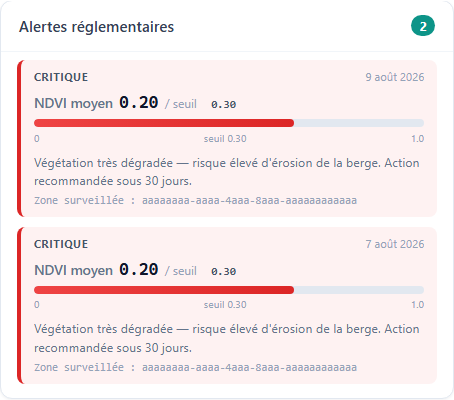
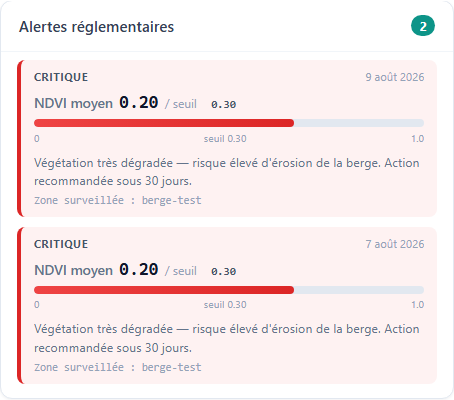
feat(api+web): nom lisible des zones (aoi_name) au lieu de l'UUID brut dans les alertes
- api : list_open_alerts fait un LEFT JOIN avec la table aoi → renvoie aoi_name ; fallback UUID tronqué si inconnu (SQLite tests)
- web : AlertPanel affiche 'Zone surveillée : berge-test' (aoi_name), fallback UUID tronqué
- tests : verify mis à jour (nom lisible, plus d'UUID plein) — Playwright 9/9, pytest 47/47
- captures : régénérées (nom de zone)

Changed region(s): [[0.3084, 0.9, 0.8018, 0.93], [0.3084, 0.48, 0.8018, 0.51]]

diff --git a/web/e2e/verify.spec.ts b/web/e2e/verify.spec.ts
@@ -1,28 +1,16 @@
 import { test, expect } from "@playwright/test";
 
-/** Vérification : alertes au format professionnel (jauge + AOI complet). */
-test("les alertes affichent le format professionnel", async ({ page }) => {
+/** Vérification : le nom lisible de la zone remplace l'UUID brut. */
+test("la zone surveillée affiche un nom lisible (plus d'UUID brut)", async ({ page }) => {
   await page.goto("/", { waitUntil: "networkidle" });
   await page.waitForTimeout(3000);
 
   const alertItem = page.locator(".alert-item").first();
   await expect(alertItem).toBeVisible();
-
-  // Métrique avec séparateur seuil
-  const metric = await alertItem.locator(".alert-metric-row").textContent();
-  expect(metric).toContain("NDVI moyen");
-  expect(metric).toContain("/ seuil");
-
-  // Jauge de progression
-  const gauge = alertItem.locator(".alert-gauge-fill");
-  await expect(gauge).toBeVisible();
-  const fillWidth = await gauge.getAttribute("style");
-  expect(fillWidth).toContain("width");
-
-  // Explication + zone complète (UUID entier)
-  await expect(alertItem.locator(".alert-explain")).toContainText("Végétation très dégradée");
   const aoi = await alertItem.locator(".alert-aoi").textContent();
-  expect(aoi).toContain("aaaaaaaa-aaaa-4aaa-8aaa-aaaaaaaaaaaa");
-
-  console.log("ALERTES_PRO_OK:", { metrique: metric?.trim().slice(0, 40), jauge: fillWidth?.slice(0, 30) });
+  // L'UUID plein ne doit plus apparaître
+  expect(aoi).not.toContain("aaaaaaaa-aaaa-4aaa-8aaa-aaaaaaaaaaaa");
+  // Le nom lisible apparaît (berge-test) OU le fallback UUID tronqué (tests SQLite)
+  console.log("ZONE_OK:", aoi?.trim());
+  expect(aoi).toMatch(/Zone surveillée : (berge-\w+|.{1,9}…)/);
 });

diff --git a/web/components/AlertPanel.tsx b/web/components/AlertPanel.tsx
@@ -69,7 +69,9 @@ export function AlertPanel({ alerts, error }: { alerts: Alert[]; error: string |
             </div>
 
             <p className="alert-explain">{SEVERITY_EXPLAIN[a.severity]}</p>
-            <p className="alert-aoi">Zone surveillée : {a.aoi_id}</p>
+            <p className="alert-aoi">
+              Zone surveillée : {a.aoi_name ?? a.aoi_id.slice(0, 8) + "…"}
+            </p>
           </li>
         );
       })}

diff --git a/web/lib/api.ts b/web/lib/api.ts
@@ -6,6 +6,7 @@
 export interface Alert {
   id: string;
   aoi_id: string;
+  aoi_name?: string;
   raised_at: string;
   metric: string;
   value: number;

diff --git a/src/alerts/repository.py b/src/alerts/repository.py
@@ -41,6 +41,15 @@ alerts_table = Table(
     Column("acknowledged", Boolean, nullable=False, default=False),
 )
 
+# Table aoi (référence) — JOIN pour afficher un nom lisible au lieu de l'UUID.
+# EN: aoi reference table — JOIN to expose a readable name instead of the UUID.
+aoi_table = Table(
+    "aoi",
+    metadata,
+    Column("id", String(36), primary_key=True),
+    Column("name", String(128), nullable=False),
+)
+
 
 def save_alert(engine: Engine, aoi_id: str | UUID, decision: AlertDecision) -> str:
     """Insère une alerte en transaction / transactional insert, returns id."""
@@ -67,7 +76,10 @@ def list_open_alerts(
 ) -> list[dict[str, Any]]:
     """Alertes non acquittées, plus récentes d'abord / unacknowledged alerts."""
     stmt = (
-        select(alerts_table)
+        select(alerts_table, aoi_table.c.name.label("aoi_name"))
+        .select_from(
+            alerts_table.outerjoin(aoi_table, alerts_table.c.aoi_id == aoi_table.c.id)
+        )
         .where(alerts_table.c.acknowledged.is_(False))
         .order_by(alerts_table.c.raised_at.desc())
         .limit(limit)
@@ -75,7 +87,12 @@ def list_open_alerts(
     if aoi_id is not None:
         stmt = stmt.where(alerts_table.c.aoi_id == str(aoi_id))
     with engine.connect() as conn:
-        return [dict(row._mapping) for row in conn.execute(stmt)]
+        rows = [dict(row._mapping) for row in conn.execute(stmt)]
+    # Fallback : nom inconnu → UUID tronqué (tests SQLite sans table aoi)
+    for r in rows:
+        if not r.get("aoi_name"):
+            r["aoi_name"] = str(r["aoi_id"])[:8]
+    return rows
 
 
 def acknowledge_alert(engine: Engine, alert_id: str) -> bool:
